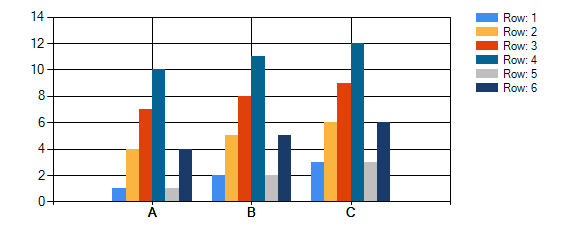
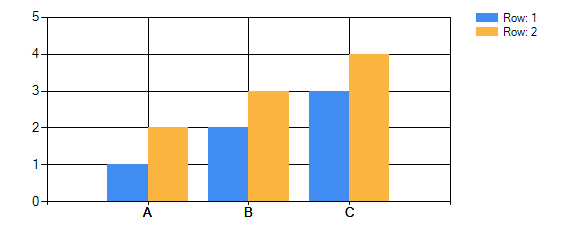
Added Chart Chooser

diff --git a/BusinessPlanWriter/TableCreator.Designer.cs b/BusinessPlanWriter/TableCreator.Designer.cs
@@ -28,9 +28,9 @@
         /// </summary>
         private void InitializeComponent()
         {
-            System.Windows.Forms.DataVisualization.Charting.ChartArea chartArea2 = new System.Windows.Forms.DataVisualization.Charting.ChartArea();
-            System.Windows.Forms.DataVisualization.Charting.Legend legend2 = new System.Windows.Forms.DataVisualization.Charting.Legend();
-            System.Windows.Forms.DataVisualization.Charting.Series series2 = new System.Windows.Forms.DataVisualization.Charting.Series();
+            System.Windows.Forms.DataVisualization.Charting.ChartArea chartArea1 = new System.Windows.Forms.DataVisualization.Charting.ChartArea();
+            System.Windows.Forms.DataVisualization.Charting.Legend legend1 = new System.Windows.Forms.DataVisualization.Charting.Legend();
+            System.Windows.Forms.DataVisualization.Charting.Series series1 = new System.Windows.Forms.DataVisualization.Charting.Series();
             this.dataView = new System.Windows.Forms.DataGridView();
             this.addColumn = new System.Windows.Forms.Button();
             this.colName = new System.Windows.Forms.TextBox();
@@ -41,6 +41,7 @@
             this.incTable = new System.Windows.Forms.CheckBox();
             this.incChart = new System.Windows.Forms.CheckBox();
             this.label1 = new System.Windows.Forms.Label();
+            this.comboBox1 = new System.Windows.Forms.ComboBox();
             ((System.ComponentModel.ISupportInitialize)(this.dataView)).BeginInit();
             ((System.ComponentModel.ISupportInitialize)(this.chart1)).BeginInit();
             this.SuspendLayout();
@@ -106,17 +107,17 @@
             // 
             // chart1
             // 
-            chartArea2.Name = "ChartArea1";
-            this.chart1.ChartAreas.Add(chartArea2);
-            legend2.Name = "Legend1";
-            this.chart1.Legends.Add(legend2);
+            chartArea1.Name = "ChartArea1";
+            this.chart1.ChartAreas.Add(chartArea1);
+            legend1.Name = "Legend1";
+            this.chart1.Legends.Add(legend1);
             this.chart1.Location = new System.Drawing.Point(12, 340);
             this.chart1.Name = "chart1";
-            series2.ChartArea = "ChartArea1";
-            series2.ChartType = System.Windows.Forms.DataVisualization.Charting.SeriesChartType.StackedColumn;
-            series2.Legend = "Legend1";
-            series2.Name = "Series1";
-            this.chart1.Series.Add(series2);
+            series1.ChartArea = "ChartArea1";
+            series1.ChartType = System.Windows.Forms.DataVisualization.Charting.SeriesChartType.StackedColumn;
+            series1.Legend = "Legend1";
+            series1.Name = "Series1";
+            this.chart1.Series.Add(series1);
             this.chart1.Size = new System.Drawing.Size(570, 234);
             this.chart1.TabIndex = 6;
             this.chart1.Text = "chart1";
@@ -152,6 +153,20 @@
             this.label1.TabIndex = 9;
             this.label1.Text = "Tables and Charts";
             // 
+            // comboBox1
+            // 
+            this.comboBox1.FormattingEnabled = true;
+            this.comboBox1.Items.AddRange(new object[] {
+            "Bar",
+            "Column",
+            "Pie",
+            "Line"});
+            this.comboBox1.Location = new System.Drawing.Point(175, 580);
+            this.comboBox1.Name = "comboBox1";
+            this.comboBox1.Size = new System.Drawing.Size(223, 21);
+            this.comboBox1.TabIndex = 10;
+            this.comboBox1.SelectedIndexChanged += new System.EventHandler(this.comboBox1_SelectedIndexChanged);
+            // 
             // TableCreator
             // 
             this.AutoScaleDimensions = new System.Drawing.SizeF(6F, 13F);
@@ -160,6 +175,7 @@
             this.AutoSizeMode = System.Windows.Forms.AutoSizeMode.GrowAndShrink;
             this.BackColor = System.Drawing.SystemColors.ControlLightLight;
             this.ClientSize = new System.Drawing.Size(594, 614);
+            this.Controls.Add(this.comboBox1);
             this.Controls.Add(this.label1);
             this.Controls.Add(this.incChart);
             this.Controls.Add(this.incTable);
@@ -193,5 +209,6 @@
         private System.Windows.Forms.CheckBox incTable;
         private System.Windows.Forms.CheckBox incChart;
         private System.Windows.Forms.Label label1;
+        private System.Windows.Forms.ComboBox comboBox1;
     }
 }

diff --git a/BusinessPlanWriter/TableCreator.cs b/BusinessPlanWriter/TableCreator.cs
@@ -11,6 +11,7 @@ using System.Linq;
 using System.Text;
 using System.Threading.Tasks;
 using System.Windows.Forms;
+using System.Windows.Forms.DataVisualization.Charting;
 using Microsoft.Office.Interop.Excel;
 using Spire.Pdf.General.Render.Font.OpenTypeFile;
 using Spire.Xls;
@@ -114,7 +115,11 @@ namespace BusinessPlanWriter
             {
                 yield return array[row, i];
             }
+
         }
+
+        
+
 
 
 
@@ -170,6 +175,26 @@ namespace BusinessPlanWriter
 
         }
 
-
+        private void comboBox1_SelectedIndexChanged(object sender, EventArgs e)
+        {
+            switch (comboBox1.SelectedItem.ToString().Trim())
+            {
+                case "Bar":
+                    chart1.Series[0].ChartType = SeriesChartType.Bar;
+                    break;
+                case "Column":
+                    chart1.Series[0].ChartType = SeriesChartType.Column;
+                    break;
+                case "Pie":
+                    chart1.Series[0].ChartType = SeriesChartType.Pie;
+                    break;
+                case "Line":
+                    chart1.Series[0].ChartType = SeriesChartType.Line;
+                    break;
+                default:
+                    chart1.Series[0].ChartType = SeriesChartType.Bar;
+                    break;
+            }
+        }
     }
 }

diff --git a/BusinessPlanWriter/Section1.cs b/BusinessPlanWriter/Section1.cs
@@ -73,7 +73,7 @@ namespace BusinessPlanWriter
                 const float ImageSize = 200;
                 ws.Shapes.AddPicture("E:\\Documents\\FinalProject\\BusinessPlanWriter\\BPWChartImages\\chart1.png", Microsoft.Office.Core.MsoTriState.msoFalse, Microsoft.Office.Core.MsoTriState.msoCTrue, Left, Top, ImageSize*2, ImageSize);
 
-            }
+            } 
 
         }
 
